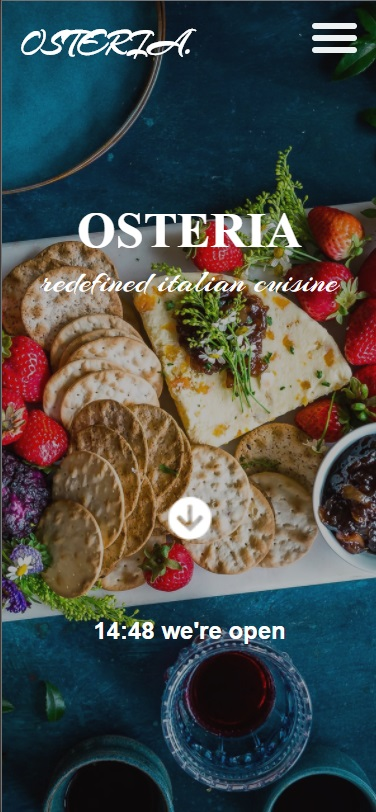
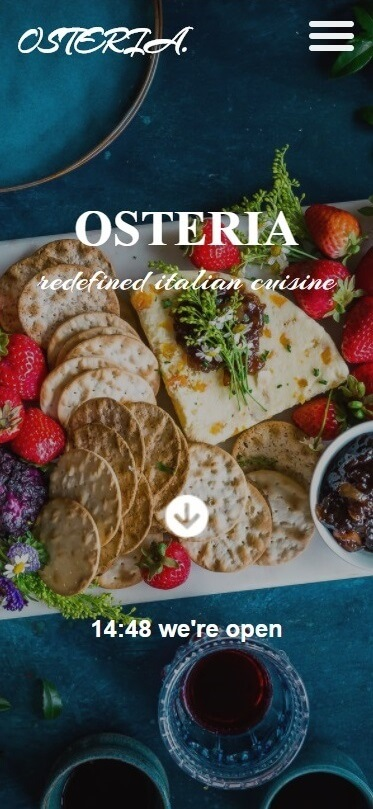
fixed safari bug compressed imgs

diff --git a/src/components/Header/Header.js b/src/components/Header/Header.js
@@ -15,8 +15,8 @@ const StyledHeader = styled.header`
 
   @media screen and (max-width: 768px) {
     & {
-      background-image: linear-gradient(to top, rgba(255,0,0,0), rgba(0,0,0,.9));
-      background: -webkit-linear-gradient(to top, rgba(255,0,0,0), rgba(0,0,0,.9));
+      background-image: linear-gradient(to top, rgba(0,0,0,0), rgba(0,0,0,.9));
+      background: -webkit-linear-gradient(to top, rgba(0,0,0,0), rgba(0,0,0,.9));
     }
   }
 `;
